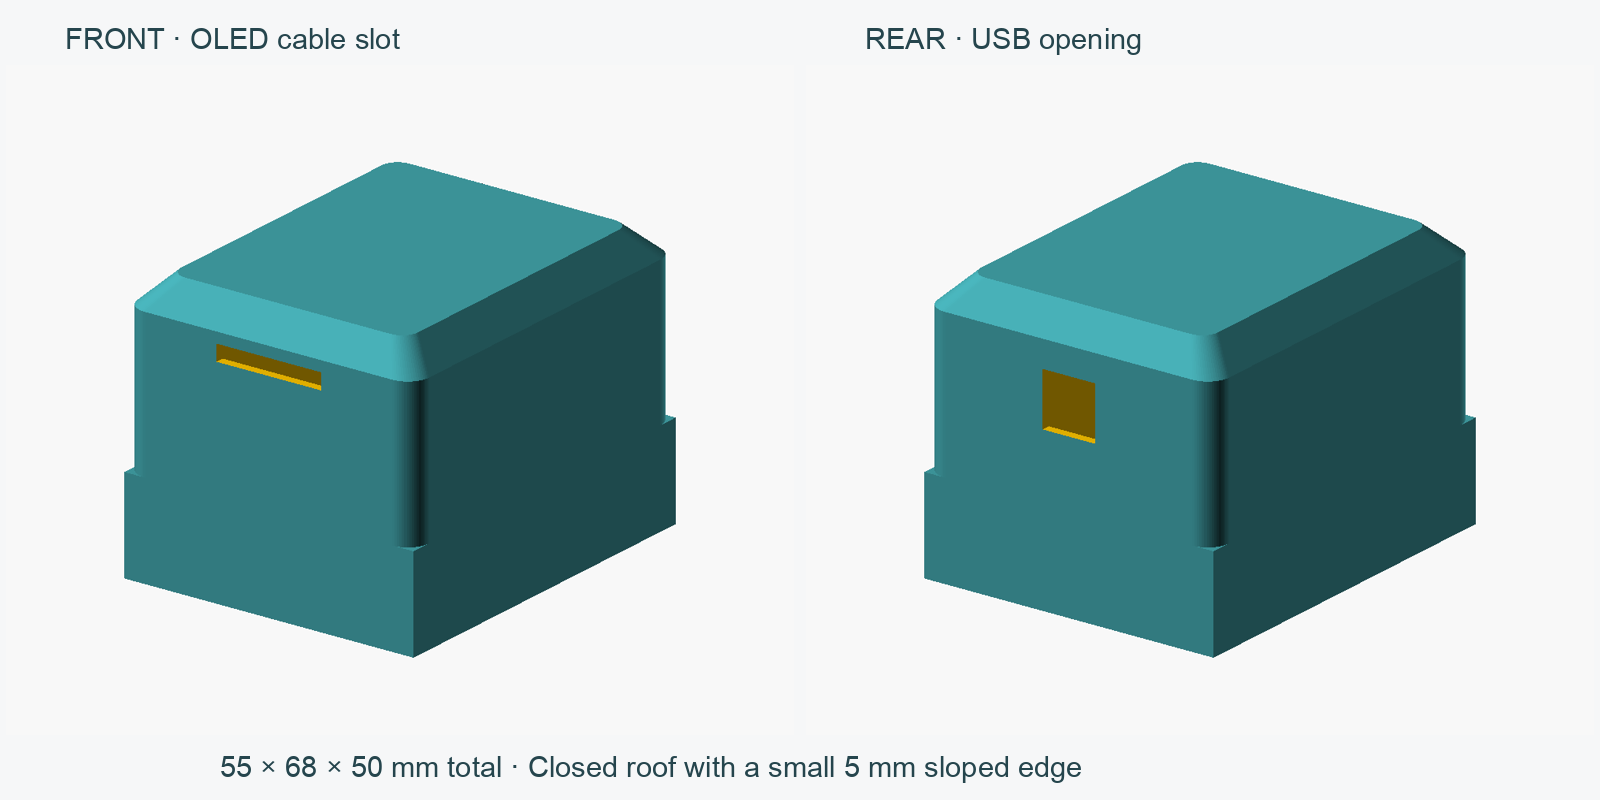
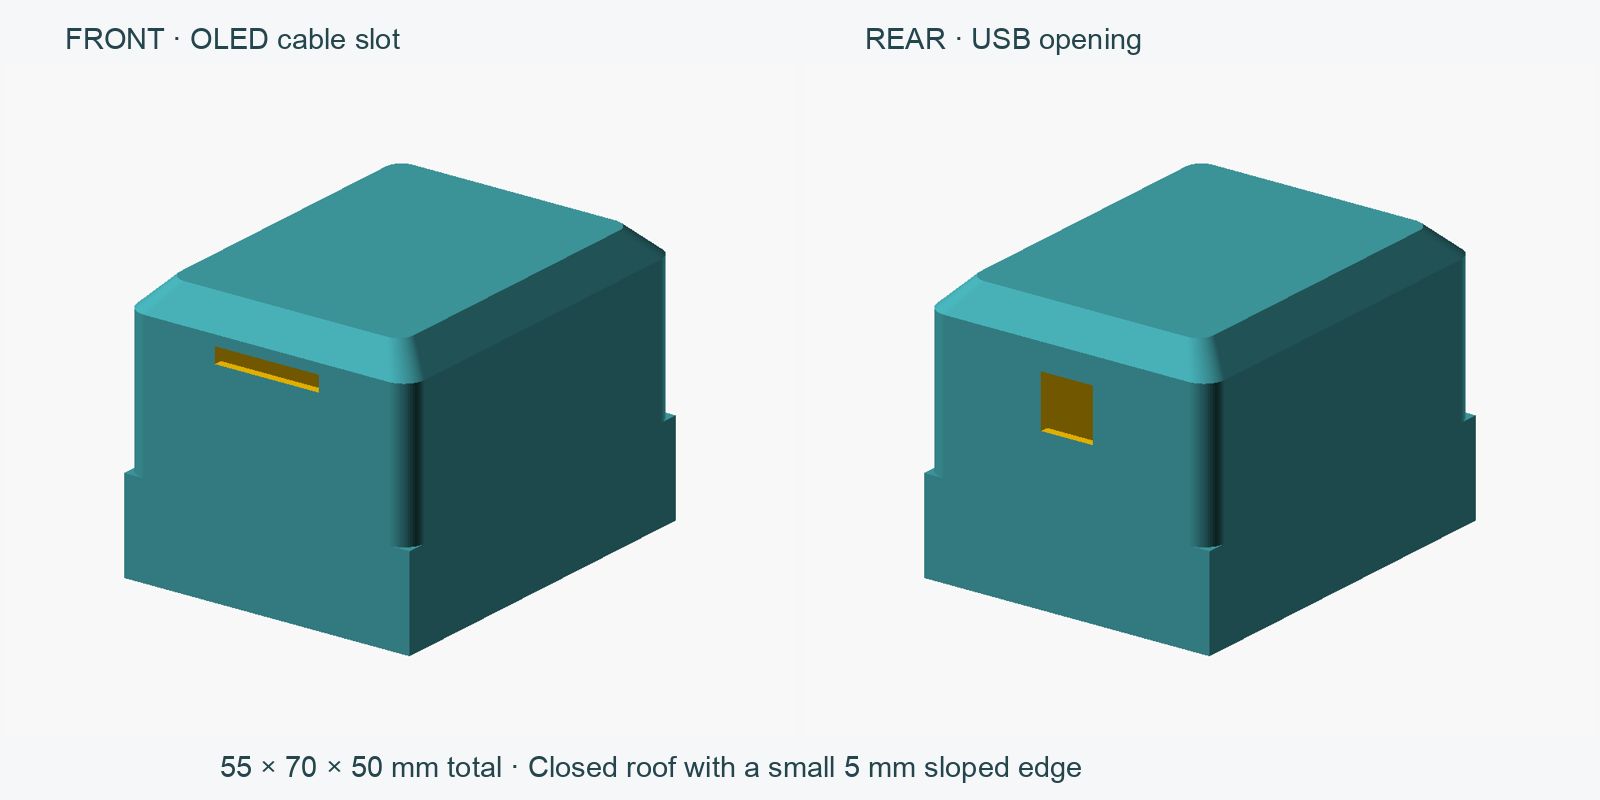
fix: extend MicroHuli body length to 70 mm

diff --git a/tasks/microhuli-import.md b/tasks/microhuli-import.md
@@ -77,3 +77,8 @@ Physical Nano/OLED/IR, the connected build's 485-byte runtime memory margin and 
 - User clarified that the top should resemble the old design with a little edge, rejecting the 100 mm open-rim version. Add `body-cute-50mm.scad`: 55 × 68 × 50 mm overall, closed roof, 5 mm sloped shoulder and rounded upper plan corners, open bottom. Mark the tall-rim version superseded and point the enclosure guide to the corrected design.
 - Retain the external OLED cable slot (20.005 × 3 mm at Z=40–43) and rear USB opening (10 × 10 mm at Z=30–40, upper edge 10 mm below the top). Preserve nominal lower collar cavity 53 × 66 × 16 mm. Top-down STL orientation avoids a supported internal roof.
 - OpenSCAD export/render pass. Final mesh passes: one watertight consistently wound component, 55 × 68 × 50 mm, Z=0, correct two port bounds, Euler -2 and volume 20,669.78 mm³. Front/rear preview inspected; Markdown formatting, local links and diff checks pass. No runtime code changes or physical print/fit verification. Chassis retention and OLED attachment remain unverified. Existing Draft PR #54 updated.
+
+## Body length increased to 70 mm
+
+- Increase the corrected closed-roof body length from 68 to 70 mm. Width stays 55 mm, total height 50 mm, roof shoulder 5 mm. OLED and USB opening sizes/heights stay unchanged and follow the front/rear walls. Lower nominal cavity becomes 53 × 68 × 16 mm, adding 2 mm length clearance relative to the prior version; chassis retention remains unverified.
+- Regenerate a distinctly named `MicroHuli_body_70x55x50mm.stl`, update dimension notes and preview. OpenSCAD render/export, independent single-component watertight/winding/topology/dimensions/Z=0 checks and both port corner checks pass; volume is 21,100.16 mm³. Preview inspected; Markdown formatting, local links and diff checks pass. No runtime changes or physical print. Existing Draft PR #54 updated.

diff --git a/hardware/MicroHuli/enclosure/body-cute-50mm.md b/hardware/MicroHuli/enclosure/body-cute-50mm.md
@@ -1,7 +1,7 @@
 # MicroHuli body with a small sloped roof edge
 
 This is the corrected body requested after the raised-rim interpretation was
-rejected. Outside dimensions are **55 × 68 × 50 mm total**, including the roof.
+rejected. Outside dimensions are **55 × 70 × 50 mm total**, including the roof.
 It has a **closed top**, a small **5 mm sloped shoulder** like the original
 cover, softly rounded upper plan corners, and an open bottom for the chassis.
 
@@ -14,7 +14,7 @@ cover, softly rounded upper plan corners, and an open bottom for the chassis.
 - Rear USB opening: **10 × 10 mm**, centered, 30–40 mm above the bottom. Its
   upper edge is **10 mm below the top**. Check actual connector alignment.
 - Upper walls and flat roof: **1.6 mm**. Lower collar: 1 mm walls with a nominal
-  **53 × 66 mm cavity for the first 16 mm**. A short transition joins the square
+  **53 × 68 mm cavity for the first 16 mm**. A short transition joins the square
   collar to rounded upper corners. The cavity narrows beneath the roof shoulder.
 - No internal mounts. Check shield, battery, plugs and wires together; nominal
   outside dimensions do not establish electronics clearance or chassis retention.
@@ -24,7 +24,7 @@ cover, softly rounded upper plan corners, and an open bottom for the chassis.
 ```sh
 mkdir -p hardware/MicroHuli/enclosure/exports
 openscad --export-format binstl \
-  -o hardware/MicroHuli/enclosure/exports/MicroHuli_body_cute_50mm.stl \
+  -o hardware/MicroHuli/enclosure/exports/MicroHuli_body_70x55x50mm.stl \
   hardware/MicroHuli/enclosure/body-cute-50mm.scad
 ```
 

diff --git a/hardware/MicroHuli/enclosure/README.md b/hardware/MicroHuli/enclosure/README.md
@@ -1,6 +1,6 @@
 # Larger MicroHuli battery cover
 
-For the corrected **55 × 68 × 50 mm body with a closed roof and small sloped
+For the corrected **55 × 70 × 50 mm body with a closed roof and small sloped
 edge**, see [the rounded 50 mm cover](body-cute-50mm.md). It retains an
 original-style OLED cable slot and the rear USB opening. The
 [flat-top version](body-50mm.md) remains a separate alternative; the
